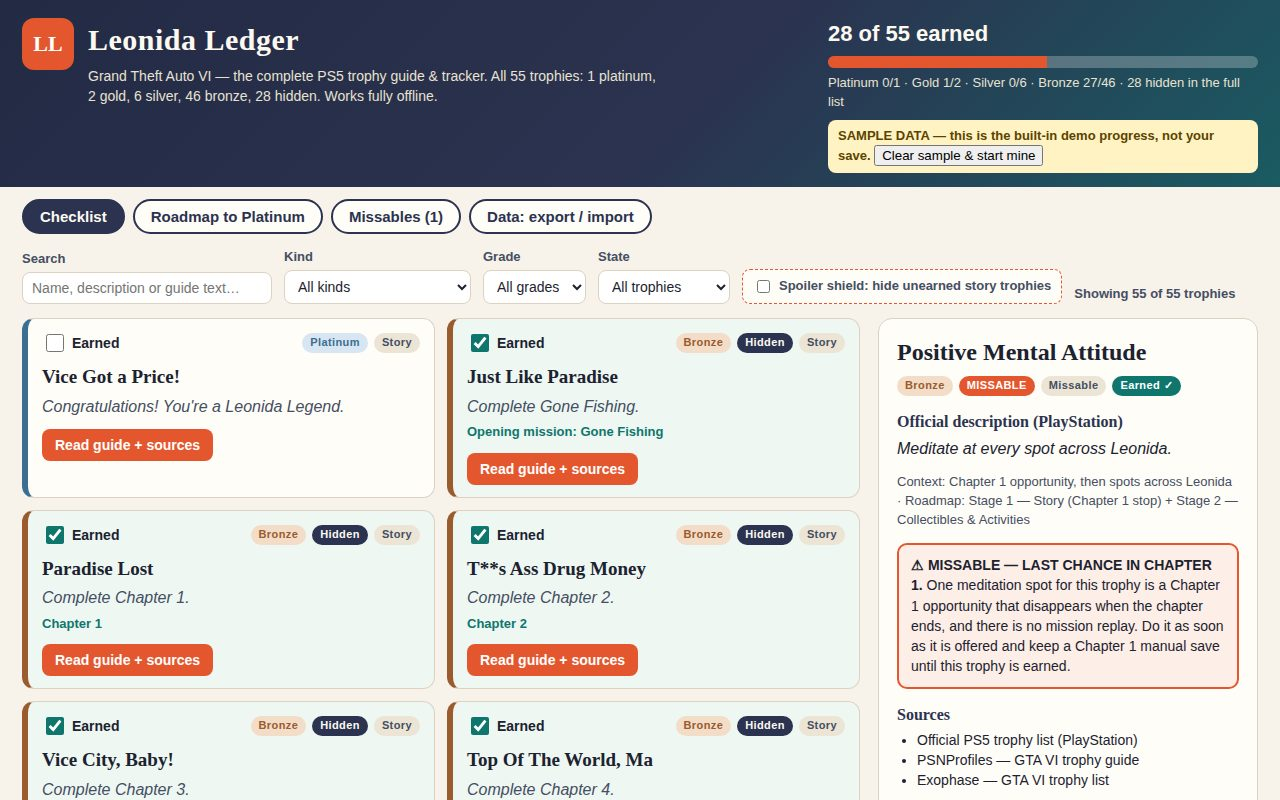
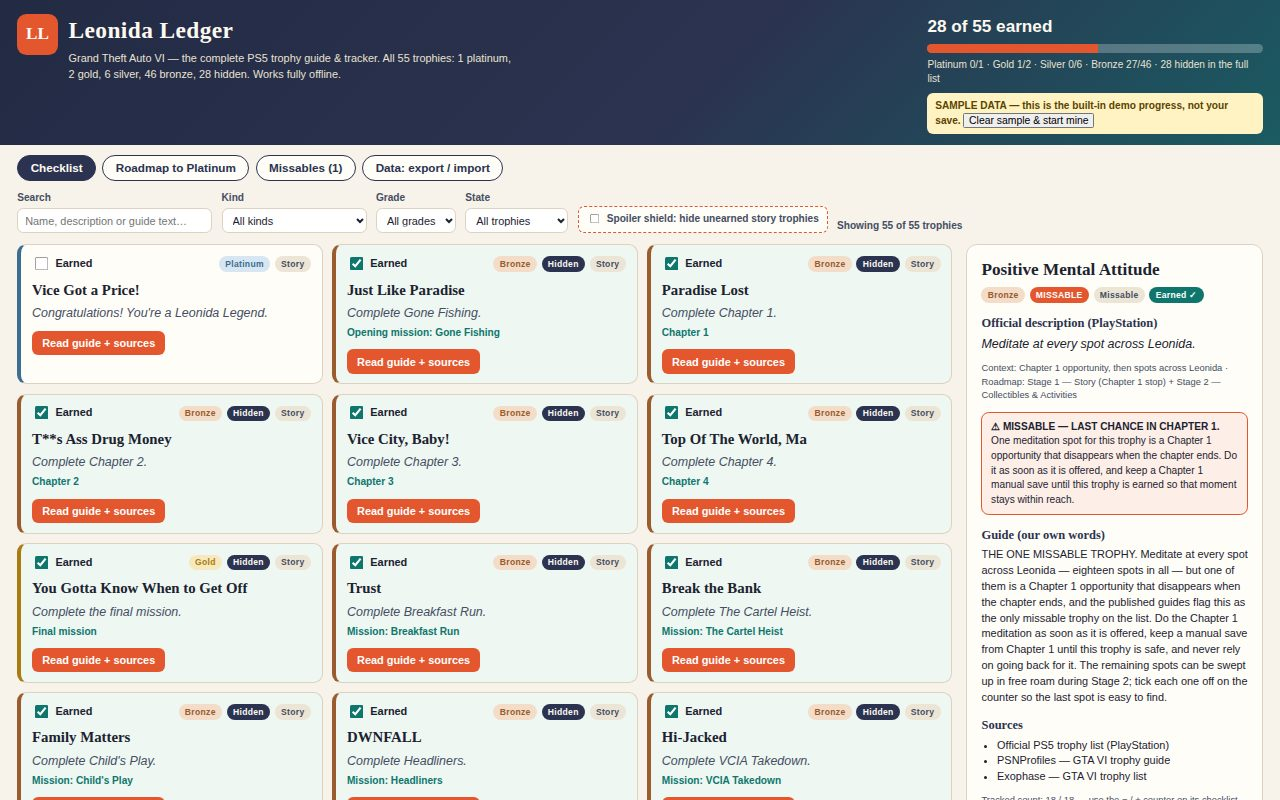
Review fixes: guide text above sources in panel and cover retaken so full guide + sources are in frame; roadmap retaken showing two stages; spoiler shield no longer leaks via guide panel or search; counter dropping below target clears earned; mission-replay/cheat mechanics claims softened to save-di

diff --git a/app/views.js b/app/views.js
@@ -25,7 +25,7 @@ const ROADMAP_STAGES = [
   {
     key: 'Stage 1 — Story',
     title: 'Stage 1 — Story, in order',
-    blurb: 'Play the campaign from Gone Fishing to the final mission, in order. Keep a manual save at the start of every chapter — the game has no mission replay — and never use cheats on a trophy run. One stop in this stage is time-sensitive: the Chapter 1 meditation for Positive Mental Attitude, flagged on its card and in the Missables view. Everything else in this stage is unmissable story progress.'
+    blurb: 'Play the campaign from Gone Fishing to the final mission, in order. Keep a manual save at the start of every chapter so that chapter stays within your own reach, and keep cheats out of a trophy run as a precaution. One stop in this stage is time-sensitive: the Chapter 1 meditation for Positive Mental Attitude, flagged on its card and in the Missables view. Everything else in this stage is unmissable story progress.'
   },
   {
     key: 'Stage 2 — Collectibles & Activities',
@@ -155,6 +155,16 @@ function renderGuidePanel(trophy, progress, callbacks) {
   empty.hidden = true;
   panel.hidden = false;
 
+  if (isSpoilerHidden(trophy, progress)) {
+    const shieldTitle = document.createElement('h2');
+    shieldTitle.textContent = 'Story trophy — spoiler shield on';
+    panel.appendChild(shieldTitle);
+    const shieldText = document.createElement('p');
+    shieldText.textContent = 'While the spoiler shield is on and this trophy is unearned, its name, official description and guide all stay hidden in this panel too. Earn it in the game, or switch the shield off in the filter bar, and the full guide appears here.';
+    panel.appendChild(shieldText);
+    return;
+  }
+
   const title = document.createElement('h2');
   title.textContent = trophy.name;
   panel.appendChild(title);
@@ -190,10 +200,18 @@ function renderGuidePanel(trophy, progress, callbacks) {
     strong.textContent = '⚠ MISSABLE — LAST CHANCE IN CHAPTER 1. ';
     warning.appendChild(strong);
     warning.appendChild(document.createTextNode(
-      'One meditation spot for this trophy is a Chapter 1 opportunity that disappears when the chapter ends, and there is no mission replay. Do it as soon as it is offered and keep a Chapter 1 manual save until this trophy is earned.'
+      'One meditation spot for this trophy is a Chapter 1 opportunity that disappears when the chapter ends. Do it as soon as it is offered, and keep a Chapter 1 manual save until this trophy is earned so that moment stays within reach.'
     ));
     panel.appendChild(warning);
   }
+
+  const guideHead = document.createElement('h3');
+  guideHead.textContent = 'Guide (our own words)';
+  panel.appendChild(guideHead);
+  const guide = document.createElement('p');
+  guide.className = 'guide-text';
+  guide.textContent = trophy.guide;
+  panel.appendChild(guide);
 
   const sourcesHead = document.createElement('h3');
   sourcesHead.textContent = 'Sources';
@@ -206,14 +224,6 @@ function renderGuidePanel(trophy, progress, callbacks) {
     list.appendChild(item);
   }
   panel.appendChild(list);
-
-  const guideHead = document.createElement('h3');
-  guideHead.textContent = 'Guide (our own words)';
-  panel.appendChild(guideHead);
-  const guide = document.createElement('p');
-  guide.className = 'guide-text';
-  guide.textContent = trophy.guide;
-  panel.appendChild(guide);
 
   if (trophy.target) {
     const count = document.createElement('p');
@@ -256,7 +266,7 @@ function renderRoadmap(trophies, progress, callbacks) {
   heading.textContent = 'Roadmap to the Platinum — built from the official descriptions';
   intro.appendChild(heading);
   const text = document.createElement('p');
-  text.textContent = 'Four stages, in order. The stage of every trophy comes from what its official description asks for: chapter and mission trophies first, collectibles and activities second, the tracked counts and 100% completion third, and the platinum last. Save discipline for the whole run: a manual save at the start of every chapter, one untouched save before the final mission, no cheats on the trophy save, and the Chapter 1 meditation done the moment it appears.';
+  text.textContent = 'Four stages, in order. The stage of every trophy comes from what its official description asks for: chapter and mission trophies first, collectibles and activities second, the tracked counts and 100% completion third, and the platinum last. Save discipline for the whole run: a manual save at the start of every chapter, one untouched save before the final mission, cheats kept off the trophy save as a precaution, and the Chapter 1 meditation done the moment it appears.';
   intro.appendChild(text);
   body.appendChild(intro);
 
@@ -307,7 +317,7 @@ function renderMissables(trophies, progress, callbacks) {
   bannerTitle.textContent = '⚠ LAST CHANCE — ONE MISSABLE TROPHY';
   banner.appendChild(bannerTitle);
   const bannerText = document.createElement('p');
-  bannerText.textContent = 'The published guides agree there is exactly ONE missable trophy in the 55: Positive Mental Attitude. One of its 18 meditation spots is a Chapter 1 opportunity that disappears when Chapter 1 ends. Story missions cannot be replayed, so a missed spot means a new playthrough. Do it in Chapter 1, and keep a Chapter 1 manual save until the trophy pops.';
+  bannerText.textContent = 'The published guides agree there is exactly ONE missable trophy in the 55: Positive Mental Attitude. One of its 18 meditation spots is a Chapter 1 opportunity that disappears when Chapter 1 ends, and once the chapter closes that spot is gone for this playthrough. Do it in Chapter 1, and keep a Chapter 1 manual save until the trophy pops.';
   banner.appendChild(bannerText);
   body.appendChild(banner);
 
@@ -320,7 +330,7 @@ function renderMissables(trophies, progress, callbacks) {
     'Keep a manual save at the start of every chapter, and never overwrite the Chapter 1 save until Positive Mental Attitude is earned.',
     'Keep one untouched save from just before the final mission.',
     'Rotate the remaining save slots as you play; never rely on the autosave alone.',
-    'Never use cheats on your trophy save — they can disable trophies and saving.',
+    'Keep cheats off your trophy save as a precaution, so nothing about the run is left in doubt.',
     'After Chapter 1, the remaining meditation spots stay available in free roam: sweep them in Stage 2 and tick the counter after each one.'
   ];
   const tipList = document.createElement('ul');

diff --git a/app/app.js b/app/app.js
@@ -44,6 +44,7 @@ const ledgerCallbacks = {
     const next = Math.max(0, Math.min(trophy.target, current + delta * step));
     ledgerState.progress.counters[trophy.name] = next;
     if (next >= trophy.target) ledgerState.progress.earned[trophy.name] = true;
+    else delete ledgerState.progress.earned[trophy.name];
     persistAndRender();
   },
   onSelect(trophy) {
@@ -67,7 +68,13 @@ function trophyMatchesFilters(trophy) {
   if (filters.state === 'unearned' && progress.earned[trophy.name]) return false;
   if (filters.state === 'hidden' && !trophy.hidden) return false;
   if (filters.search) {
-    const haystack = (trophy.name + ' ' + trophy.description + ' ' + trophy.guide + ' ' + (trophy.chapter || '')).toLowerCase();
+    // A shielded story trophy must not leak through search: while the
+    // spoiler shield hides it, only its grade and kind are searchable,
+    // never its name, description, chapter or guide text.
+    const shielded = typeof isSpoilerHidden === 'function' && isSpoilerHidden(trophy, progress);
+    const haystack = shielded
+      ? (trophy.grade + ' ' + trophy.kind + ' hidden story').toLowerCase()
+      : (trophy.name + ' ' + trophy.description + ' ' + trophy.guide + ' ' + (trophy.chapter || '')).toLowerCase();
     if (!haystack.includes(filters.search.toLowerCase())) return false;
   }
   return true;

diff --git a/app/style.css b/app/style.css
@@ -284,7 +284,7 @@ h1, h2, h3 { font-family: Georgia, "Times New Roman", serif; }
   top: 12px;
 }
 
-#guide-panel h2 { margin: 0 0 6px; font-size: 24px; }
+#guide-panel h2 { margin: 0 0 6px; font-size: 22px; }
 
 #guide-panel h3 { margin: 14px 0 4px; font-size: 16px; color: var(--dusk); }
 
@@ -292,17 +292,17 @@ h1, h2, h3 { font-family: Georgia, "Times New Roman", serif; }
 
 .official-desc { font-style: italic; font-size: 16px; margin: 0; }
 
-.panel-context { font-size: 13px; color: var(--ink-soft); }
+.panel-context { font-size: 12px; color: var(--ink-soft); }
 
-.guide-text { margin: 0; font-size: 15px; }
+.guide-text { margin: 0; font-size: 14px; }
 
 .missable-warning {
-  margin-top: 12px;
+  margin-top: 10px;
   background: var(--danger-bg);
   border: 2px solid var(--danger-line);
   border-radius: 10px;
-  padding: 10px 12px;
-  font-size: 14px;
+  padding: 8px 11px;
+  font-size: 13px;
 }
 
 .sources-list { margin: 4px 0; padding-left: 20px; font-size: 14px; }
